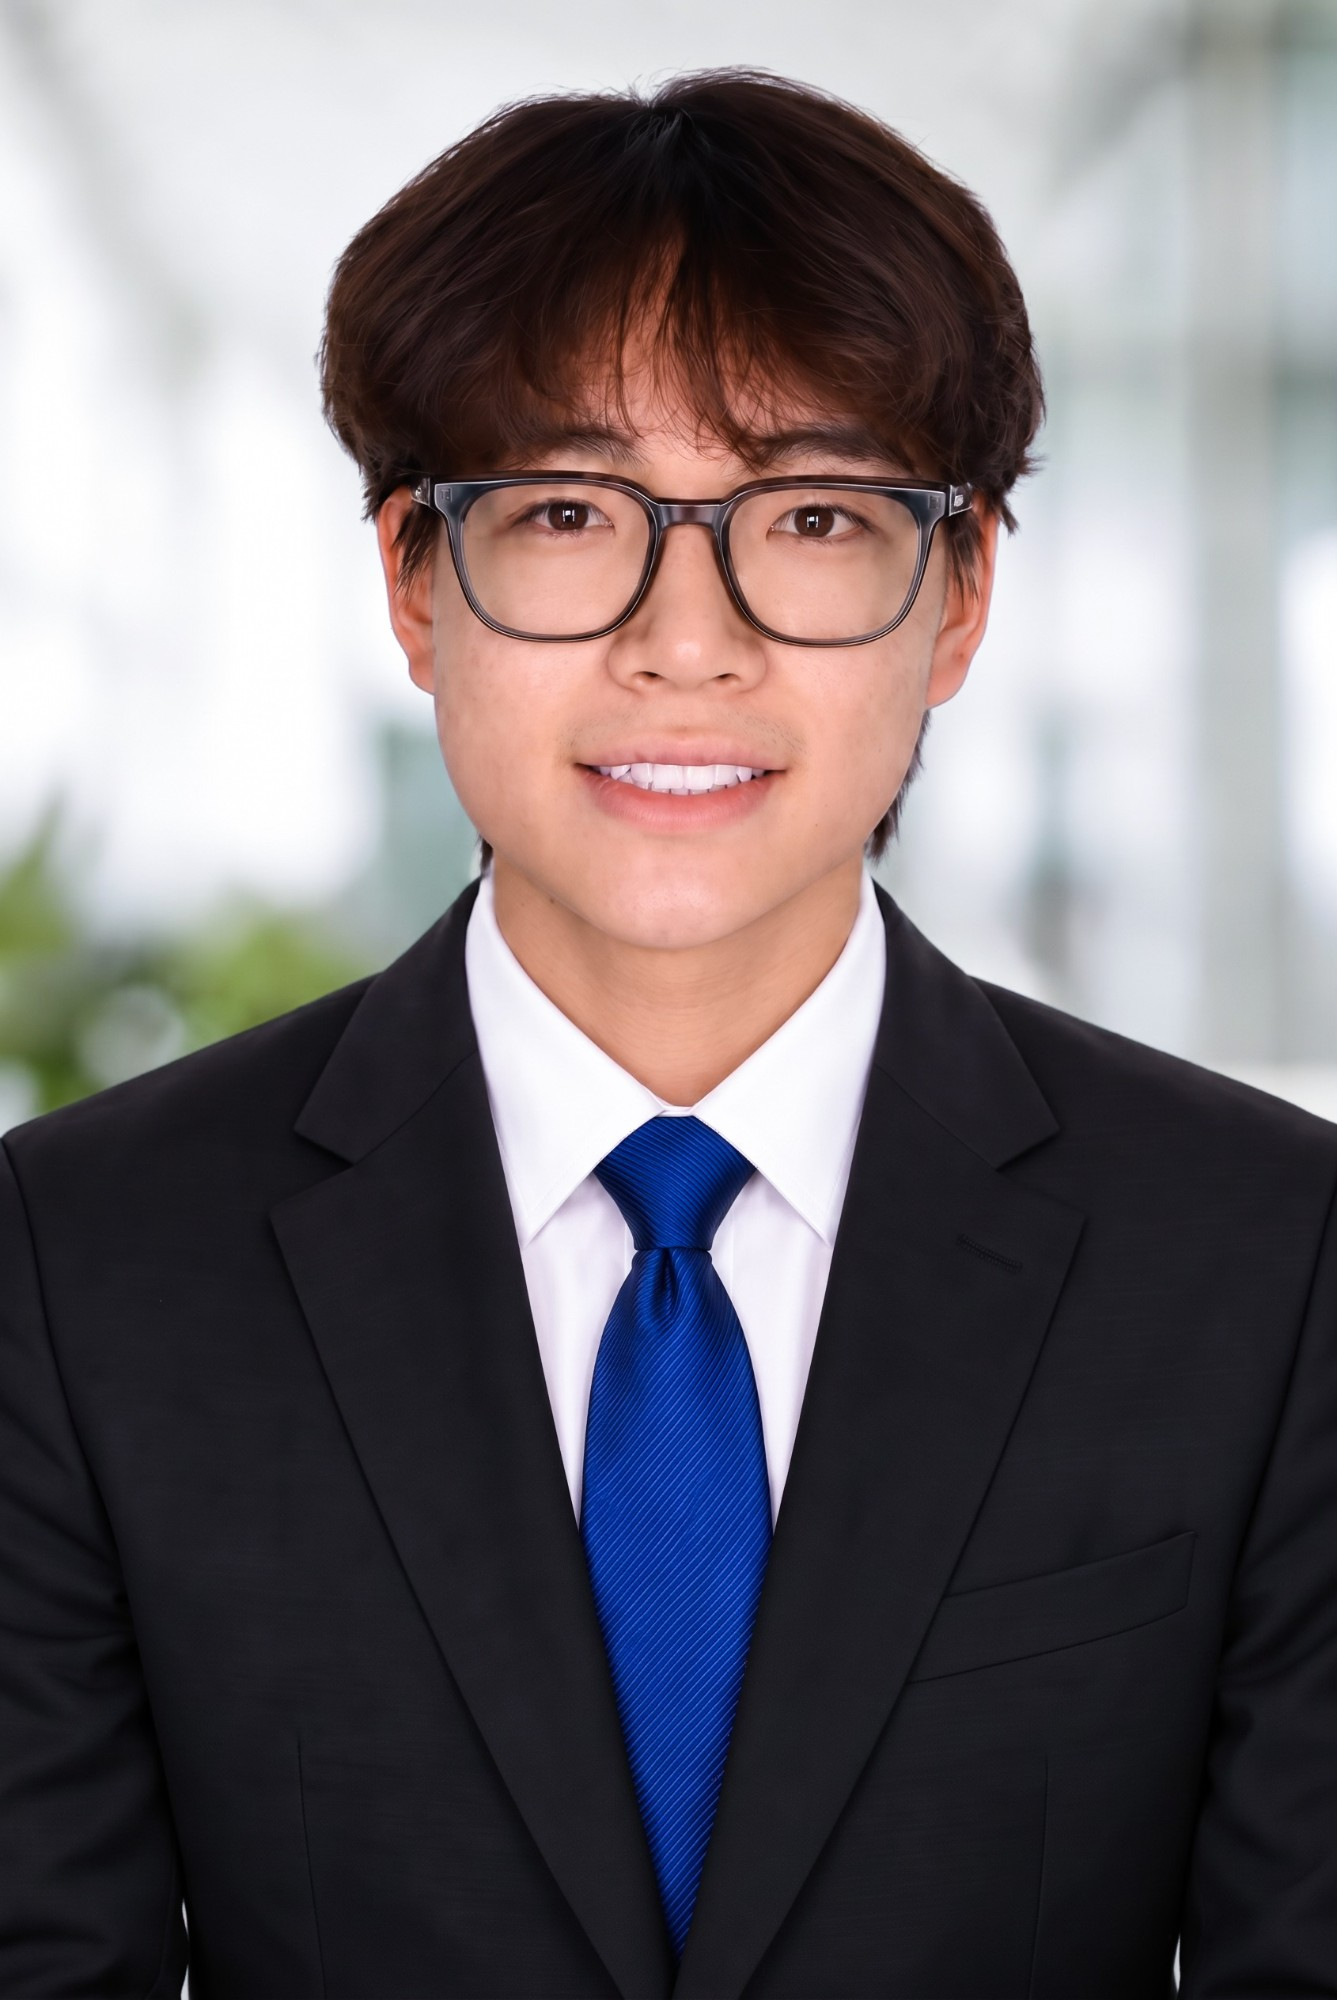
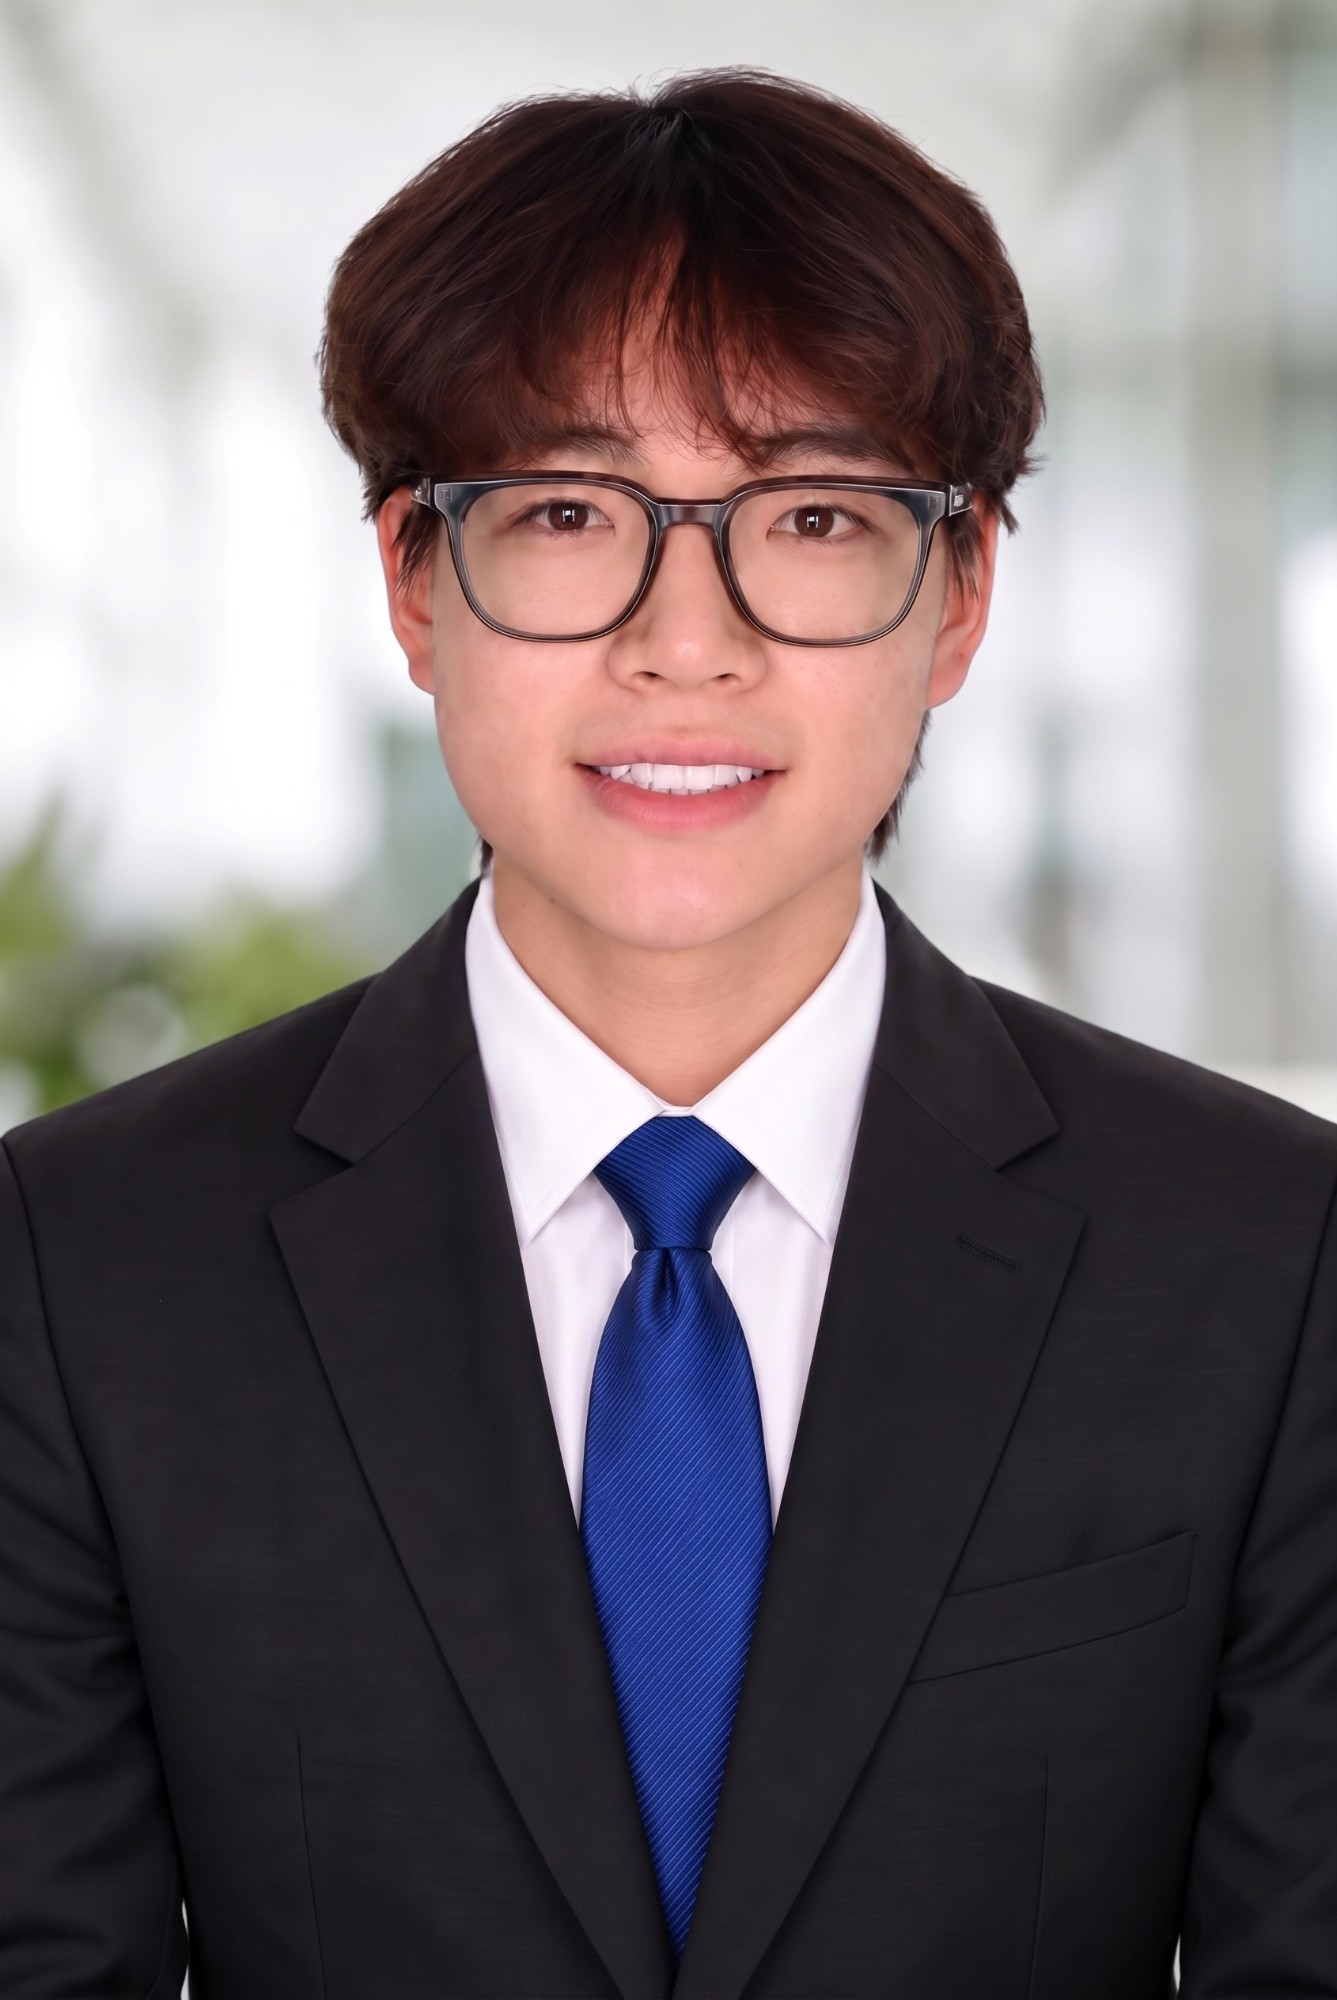
New headshot; rename SAE project to Regular Class Competition

Changed region(s): [[0.4293, 0.558, 0.5826, 0.93]]

diff --git a/src/content/projects/sae-aero/index.md b/src/content/projects/sae-aero/index.md
@@ -1,8 +1,8 @@
 ---
 # DRAFT write-up (written from the SSR, PDR and capstone reports). Review before publishing.
-title: SAE Aero Design Capstone
+title: SAE Aero Design Regular Class Competition
 summary: Senior capstone designing a two-motor electric RC cargo plane that carries 2 L bottles for the 2027 SAE Aero Design Regular Class.
-course: LMU Senior Capstone
+course: Capstone Design, LMU
 date: 2026 to 2027
 team: Taran Avery, Kasin Ito-Sato, Lucas Lee, Cooper Sedlmayer, Diego Puga. Advisor, Dr. Mustafa Mozael
 role: Five-person team. I work across aero, structures, propulsion and controls.
